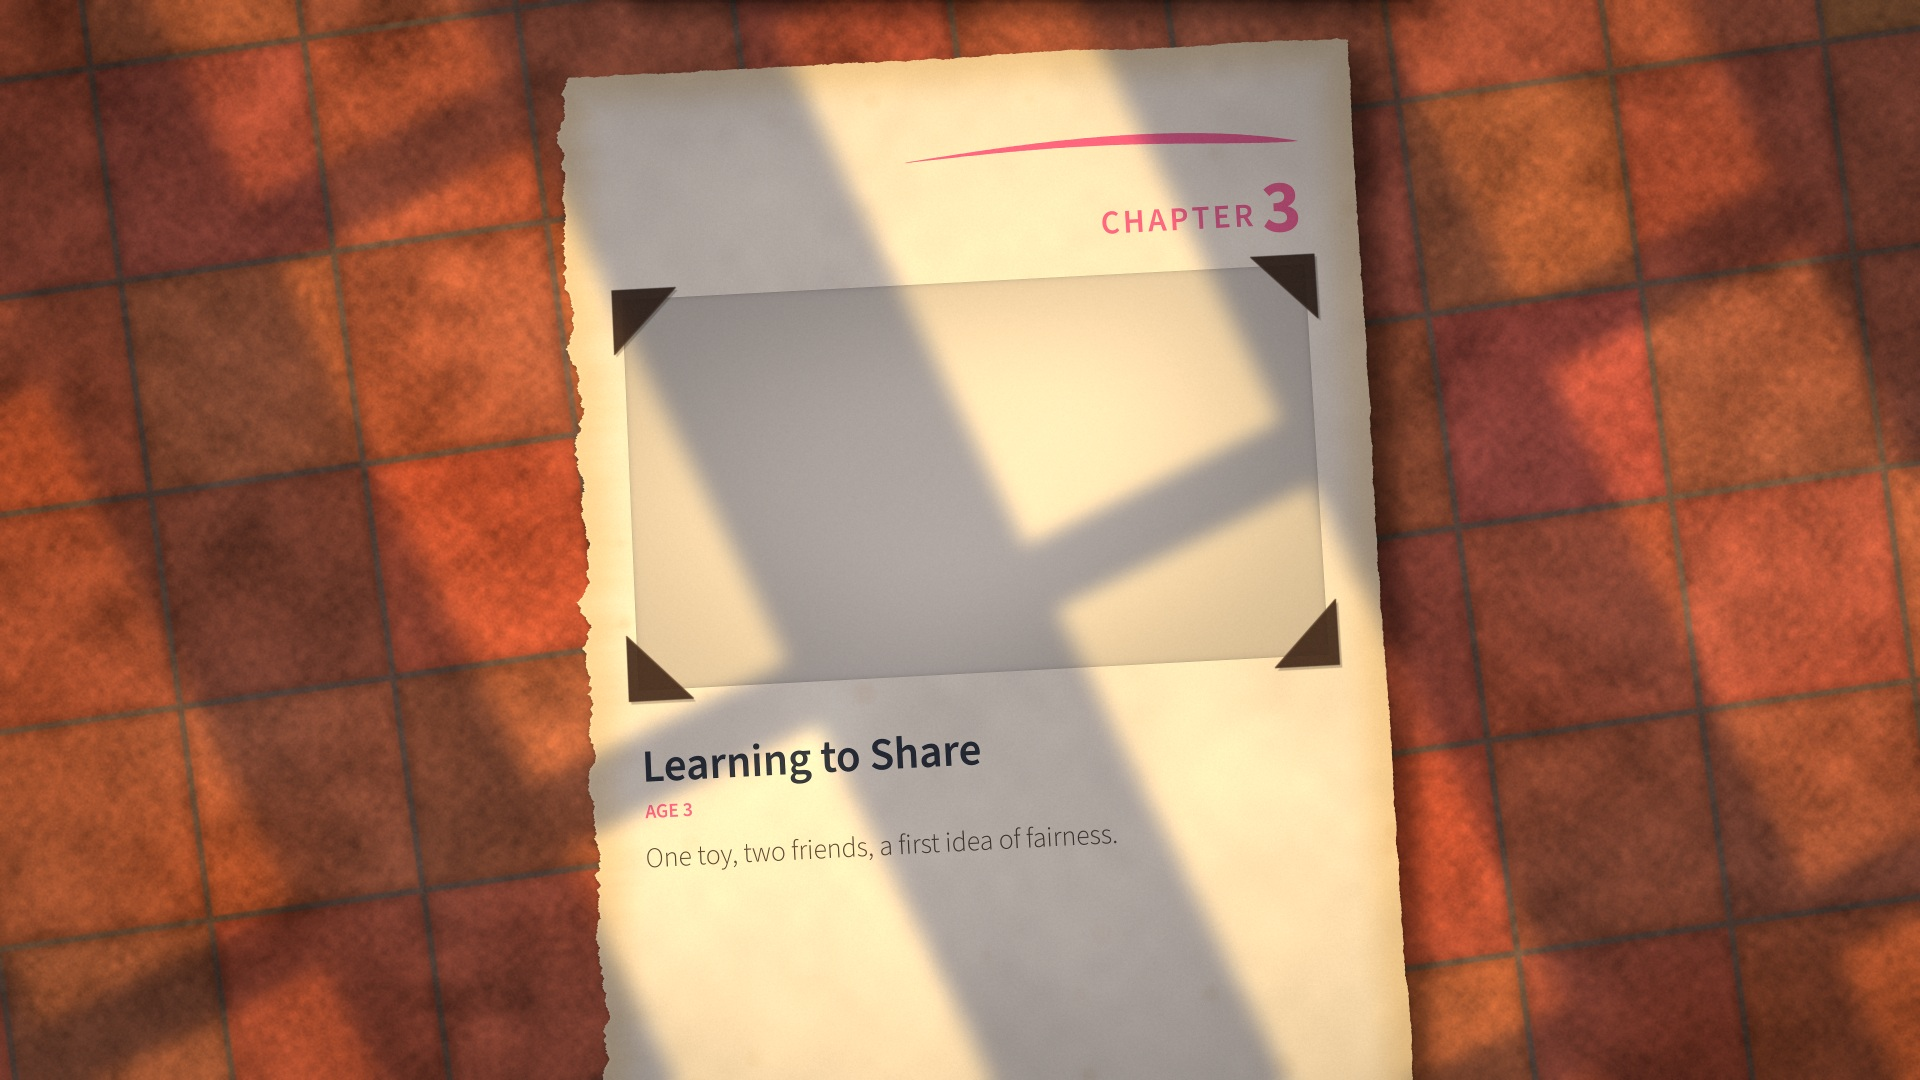
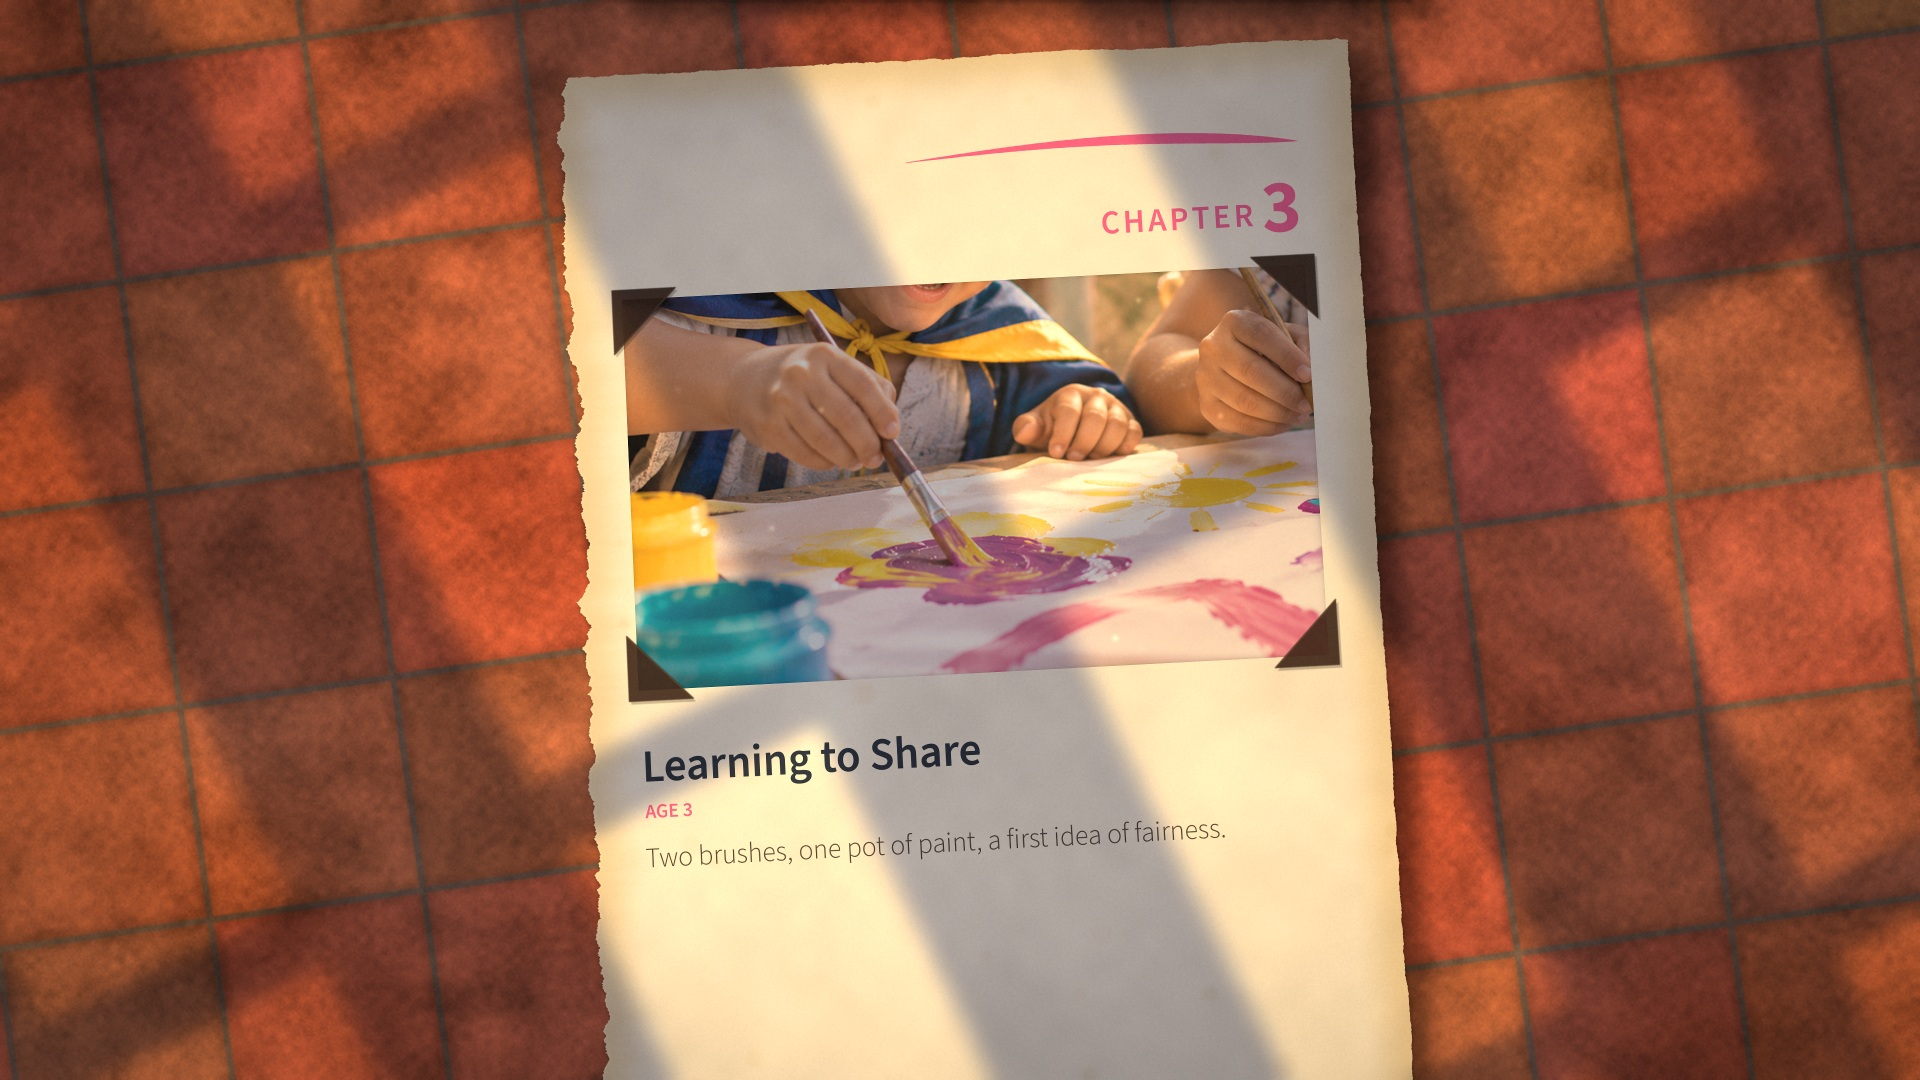
Chapter 3 page now carries a sharing photo; update Canva prompt
Claude-Session: https://claude.ai/code/session_01AAh8T4YDwtcYx73YuEQZSb

Changed region(s): [[0.3125, 0.2444, 0.6875, 0.6417], [0.375, 0.7639, 0.625, 0.7944], [0.3438, 0.7944, 0.375, 0.825]]

diff --git a/UNESCO_THE_MISSING_CHAPTERS/12_SOURCE_CODE/pages.py b/UNESCO_THE_MISSING_CHAPTERS/12_SOURCE_CODE/pages.py
@@ -16,8 +16,9 @@ CHAPTERS = {
             caption="Soap, water, and a song to count to twenty.", img="05_MEMORY_ASSETS/mem_ch2_taking_care.png",
             kb=((0.50, 0.45, 1.00), (0.42, 0.42, 1.10))),
     3: dict(color=PALETTE["magenta"], title="Learning to Share", age="AGE 3",
-            caption="One toy, two friends, a first idea of fairness.", img=None,
-            kb=((0.5, 0.5, 1.0), (0.5, 0.5, 1.06))),
+            caption="Two brushes, one pot of paint, a first idea of fairness.",
+            img="05_MEMORY_ASSETS/mem_ch5_creating_together.png", crop=(250, 435, 1150, 941),
+            kb=((0.50, 0.50, 1.00), (0.52, 0.55, 1.08))),
     4: dict(color=PALETTE["orange"], title="Discovering the World", age="AGE 4",
             caption="Every leaf was a question.", img="05_MEMORY_ASSETS/mem_ch4_discovering_world.png",
             kb=((0.50, 0.48, 1.00), (0.44, 0.52, 1.12))),
@@ -127,7 +128,11 @@ class Memory:
         c = CHAPTERS[ch]
         self.ch = ch
         if c["img"]:
-            src = grade_photo(load_rgb(p(c["img"])))
+            raw = load_rgb(p(c["img"]))
+            if c.get("crop"):
+                x0, y0, x1, y1 = c["crop"]
+                raw = raw[y0:y1, x0:x1]
+            src = grade_photo(raw)
             self.src = upscale(src, 1.6)
         else:
             self.src = None

diff --git a/UNESCO_THE_MISSING_CHAPTERS/13_AI_GENERATION_KIT/PROMPTS_CANVA.md b/UNESCO_THE_MISSING_CHAPTERS/13_AI_GENERATION_KIT/PROMPTS_CANVA.md
@@ -75,10 +75,10 @@ Sequence 4 of 8 – 7 seconds. Top-down close-up of the second old cream paper p
 ```
 
 ## SÉQUENCE 5 — Chapitre 3 : Apprendre à partager (0:28–0:35)
-**Image :** `SEQ05_chapter3_learning_to_share` (la photo est un tirage délavé : générez d'abord le souvenir avec le prompt B, puis glissez-le dans le cadre)
+**Image :** `SEQ05_chapter3_learning_to_share` (photo : les mains de deux enfants qui partagent pinceaux et pots de peinture). Pour la scène du jouet partagé, générez le souvenir avec le prompt B puis glissez-le dans le cadre.
 **A. Tout-en-un**
 ```
-Sequence 5 of 8 – 7 seconds. Top-down close-up of the third old cream paper page with torn edges on sunlit terracotta tiles, a faded rectangular photograph held by brown photo corners. The paper stays perfectly still; inside the photograph, the faded image slowly develops into colour and comes alive: a 3-year-old boy with dark curly hair, wearing a blue graduation cap with a gold tassel and a blue cape trimmed with gold, sits on a woven rug with a little girl of the same age; he holds a colourful wooden toy against his chest, hesitates, then offers it to her; she smiles and they start playing together. Camera: slow dolly-in. Mood: connection, empathy. Photorealistic, warm, film grain. No new text, no logo.
+Sequence 5 of 8 – 7 seconds. Top-down close-up of the third old cream paper page with torn edges on sunlit terracotta tiles, a rectangular printed photograph held by brown photo corners. The paper stays perfectly still; only the photograph comes alive: close on the hands of two children painting on the same big sheet of paper – the small hand of a 3-year-old boy in a blue cape trimmed with gold dips his brush into a shared pot of paint, then pushes the pot towards the other child's hand so she can use it too; their brushes paint side by side. Warm golden light. Camera: slow dolly-in. Mood: connection, empathy. Photorealistic, warm, film grain. No new text, no logo.
 ```
 **B. Souvenir seul**
 ```
